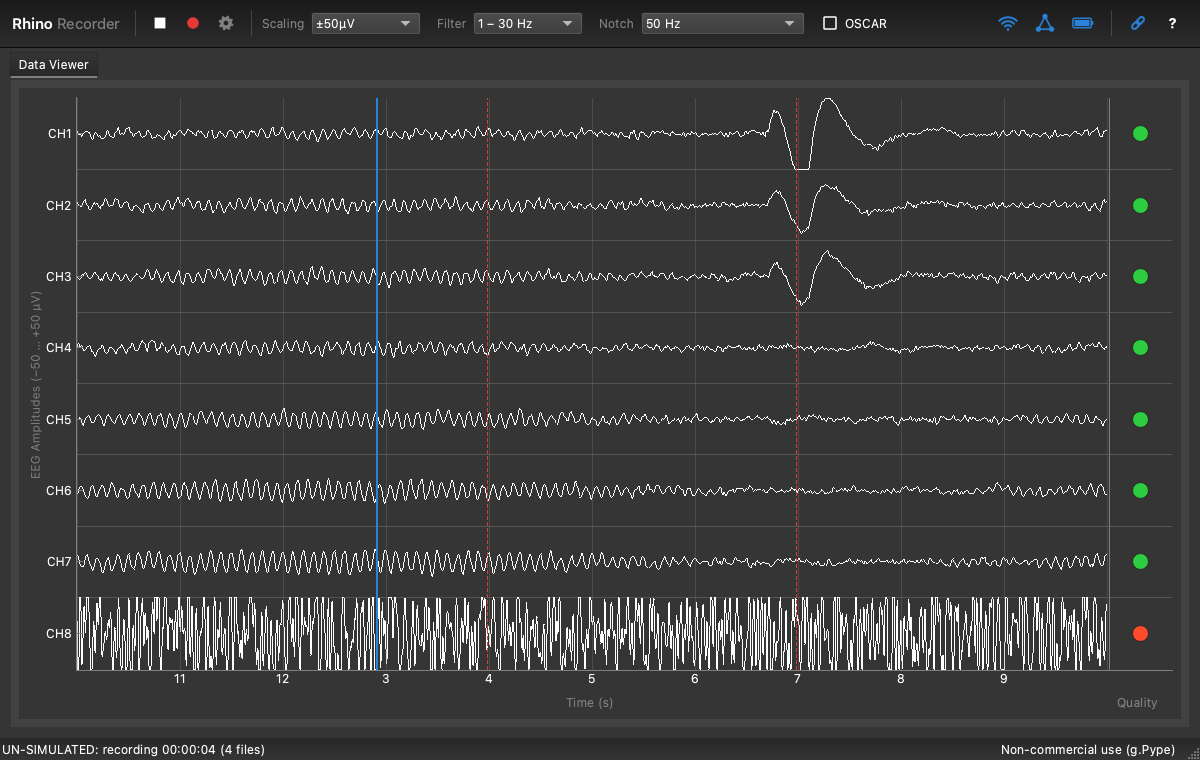
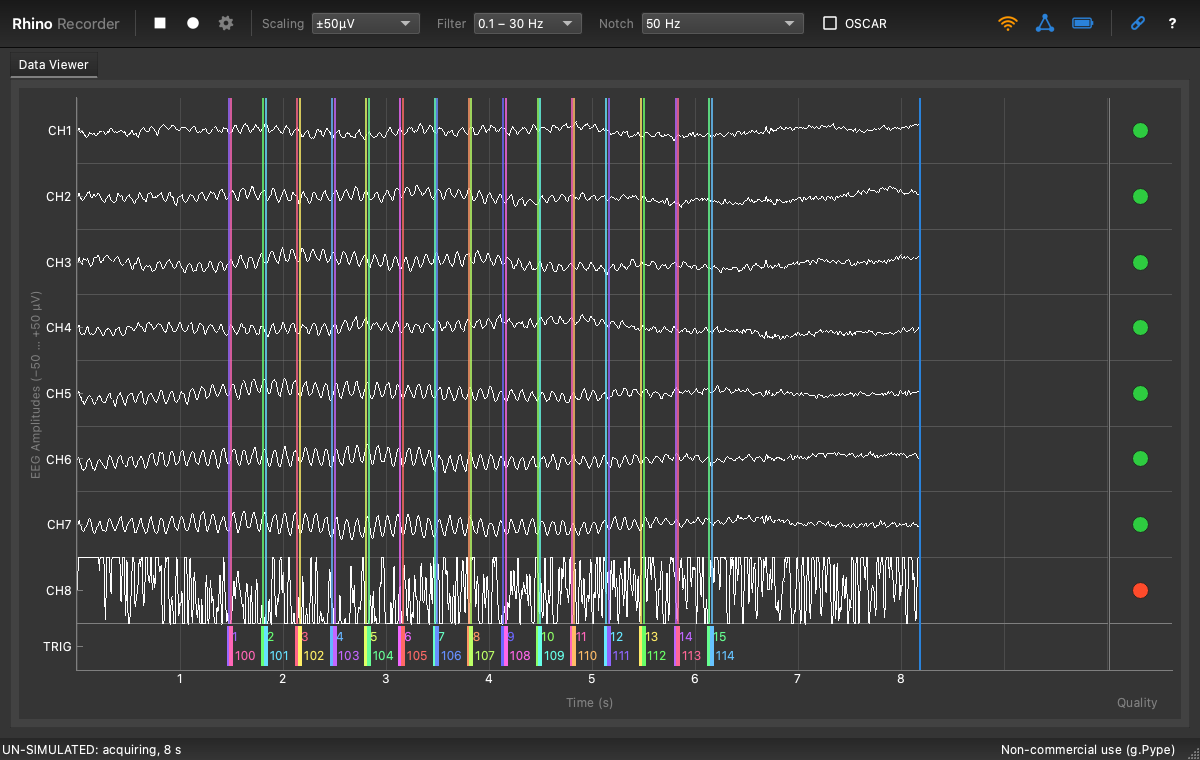
Show triggers in a TRIG row, coloured by trigger value
Below the channels, each trigger gets a marker with its value, and a
tick in the same colour crosses all channels. Each value has its own
colour (hues spaced by the golden ratio), the same in every session.
Labels of close triggers are staggered on two lines.

diff --git a/src/rhino_recorder/ui/scope.py b/src/rhino_recorder/ui/scope.py
@@ -3,13 +3,17 @@ right with a cursor at the newest sample, as in Unicorn Recorder, drawn
 the way g.Pype's TimeSeriesScope draws: light traces on the window colour,
 a faint grid, channel names on the left axis.
 
+Below the channels, a TRIG row shows each trigger as a marker with its
+value, and a tick in the same colour crosses all channels at that
+moment. Each trigger value has its own colour (:func:`trigger_colour`).
+
 To the right of the traces, a column shows each channel's signal quality
 on that channel's row."""
 from __future__ import annotations
 
 import numpy as np
 import pyqtgraph as pg
-from PySide6.QtCore import Qt
+from PySide6.QtGui import QColor
 from PySide6.QtWidgets import QVBoxLayout, QWidget
 
 from .. import layout, quality
@@ -21,6 +25,17 @@ QUALITY_TEXT = {quality.GOOD: "good", quality.BAD: "bad",
                 quality.UNKNOWN: "settling"}
 #: Height of both bottom axes, so the two plots' rows line up.
 BOTTOM_AXIS_HEIGHT = 40
+#: Height of the TRIG row, in channel rows; it spans y from -this to 0.
+TRIGGER_ROW = 0.7
+#: Golden-ratio conjugate: successive multiples spread hues evenly.
+_GOLDEN = 0.6180339887498949
+
+
+def trigger_colour(value: float) -> QColor:
+    """The colour of a trigger value: the same value always gets the same
+    colour, and neighbouring values get clearly different ones."""
+    hue = (0.11 + _GOLDEN * int(round(value))) % 1.0
+    return QColor.fromHsvF(hue, 0.6, 1.0)
 
 
 class _TimeAxis(pg.AxisItem):
@@ -66,7 +81,7 @@ class Scope(QWidget):
         item.setMouseEnabled(False, False)
         item.vb.setDefaultPadding(0)
         item.setXRange(0, seconds, padding=0)
-        item.setYRange(0, self.channels, padding=0)
+        item.setYRange(-TRIGGER_ROW, self.channels, padding=0)
         item.showGrid(x=True, y=False, alpha=0.3)
         muted = pg.mkPen(theme.MUTED)
         for name in ("left", "bottom"):
@@ -76,7 +91,7 @@ class Scope(QWidget):
         self.axis.setTickSpacing(major=1.0, minor=1.0)
         item.getAxis("left").setTicks([[
             (self.channels - i - 0.5, f"CH{i + 1}")
-            for i in range(self.channels)]])
+            for i in range(self.channels)] + [(-TRIGGER_ROW / 2, "TRIG")]])
         item.getAxis("left").setWidth(48)
         self.axis.setHeight(BOTTOM_AXIS_HEIGHT)
         item.setLabel("bottom", "Time (s)", color=theme.MUTED)
@@ -86,6 +101,7 @@ class Scope(QWidget):
         separator = pg.mkPen(255, 255, 255, 40)
         for row in range(1, self.channels):
             item.addItem(pg.InfiniteLine(row, angle=0, pen=separator))
+        item.addItem(pg.InfiniteLine(0, angle=0, pen=pg.mkPen(theme.MUTED)))
 
         self.x = np.arange(int(seconds * self.fs)) / self.fs
         trace = pg.mkPen(theme.TEXT, width=1)
@@ -95,10 +111,11 @@ class Scope(QWidget):
                                     skipFiniteCheck=False)
             item.addItem(curve)
             self.curves.append(curve)
-        self.triggers = pg.PlotDataItem(
-            pen=pg.mkPen(theme.TRIGGER, width=1, style=Qt.PenStyle.DashLine),
-            connect="finite")
-        item.addItem(self.triggers)
+        #: Per trigger value: (ticks across the channels, marker in TRIG).
+        self._trigger_items: dict[int, tuple] = {}
+        #: Value labels in the TRIG row, reused from frame to frame.
+        self._trigger_labels: list[pg.TextItem] = []
+        self._shown_triggers: tuple = ()
         self.cursor = pg.InfiniteLine(0, angle=90,
                                       pen=pg.mkPen(theme.CURSOR, width=2))
         self.cursor.hide()
@@ -129,6 +146,7 @@ class Scope(QWidget):
         separator = pg.mkPen(255, 255, 255, 40)
         for row in range(1, self.channels):
             item.addItem(pg.InfiniteLine(row, angle=0, pen=separator))
+        item.addItem(pg.InfiniteLine(0, angle=0, pen=pg.mkPen(theme.MUTED)))
         item.addItem(pg.InfiniteLine(0, angle=90, pen=pg.mkPen(theme.MUTED)))
         self.quality_dots = pg.ScatterPlotItem(
             x=[0.5] * self.channels,
@@ -173,8 +191,72 @@ class Scope(QWidget):
     def clear(self) -> None:
         for curve in self.curves:
             curve.setData([], [])
-        self.triggers.setData([], [])
+        self.show_triggers([], [])
         self.cursor.hide()
+
+    def _items_for(self, value: int) -> tuple:
+        """The tick and marker items of one trigger value, made once."""
+        if value not in self._trigger_items:
+            colour = trigger_colour(value)
+            tick_colour = QColor(colour)
+            tick_colour.setAlpha(200)
+            # A whole pixel width: at 1.5 px, ticks at some positions were
+            # drawn thin and washed out.
+            ticks = pg.PlotDataItem(pen=pg.mkPen(tick_colour, width=2),
+                                    connect="finite")
+            marker = pg.PlotDataItem(pen=pg.mkPen(colour, width=4),
+                                     connect="finite")
+            self.plot_item.addItem(ticks)
+            self.plot_item.addItem(marker)
+            self._trigger_items[value] = (ticks, marker)
+        return self._trigger_items[value]
+
+    def show_triggers(self, times, values) -> None:
+        """Mark triggers at ``times`` (s, in sweep position) with their
+        ``values``: a tick across the channels, a marker and the value in
+        the TRIG row, all in the value's colour."""
+        shown = tuple(zip(np.round(times, 4).tolist(),
+                          np.asarray(values).astype(int).tolist()))
+        if shown == self._shown_triggers:
+            return
+        self._shown_triggers = shown
+        by_value: dict[int, list[float]] = {}
+        for t, value in shown:
+            by_value.setdefault(value, []).append(t)
+        for value in by_value:
+            self._items_for(value)
+        for value, (ticks, marker) in self._trigger_items.items():
+            ts = np.array(by_value.get(value, []))
+            xs = np.repeat(ts, 3)
+            xs[2::3] = np.nan
+            ticks.setData(xs, np.tile([0.0, float(self.channels), np.nan],
+                                      len(ts)))
+            marker.setData(xs, np.tile([-TRIGGER_ROW * 0.9,
+                                        -TRIGGER_ROW * 0.1, np.nan], len(ts)))
+        while len(self._trigger_labels) < len(shown):
+            label = pg.TextItem(anchor=(0, 0.5))
+            self.plot_item.addItem(label)
+            self._trigger_labels.append(label)
+        # Labels of triggers close together would overprint: such a label
+        # takes the TRIG row's second line.
+        seconds_per_px = self.seconds / max(self.plot_item.vb.width(), 1.0)
+        lane_of, lane_end = [], [-np.inf, -np.inf]
+        for t, value in shown:
+            lane = 0 if t >= lane_end[0] else 1
+            lane_of.append(lane)
+            lane_end[lane] = t + (8 + 7 * len(str(value))) * seconds_per_px
+        if 1 in lane_of:
+            heights = (-TRIGGER_ROW * 0.3, -TRIGGER_ROW * 0.72)
+        else:
+            heights = (-TRIGGER_ROW / 2, -TRIGGER_ROW / 2)
+        for i, label in enumerate(self._trigger_labels):
+            if i < len(shown):
+                t, value = shown[i]
+                label.setText(f"{value}", color=trigger_colour(value))
+                label.setPos(t, heights[lane_of[i]])
+                label.show()
+            else:
+                label.hide()
 
     def show_sweep(self, buffer: np.ndarray, total: int,
                    eeg: list[int], status: int | None) -> None:
@@ -196,10 +278,7 @@ class Scope(QWidget):
             self.curves[row].setData(self.x, y)
         if status is not None:
             slots = np.flatnonzero(buffer[:filled, status])
-            xs = np.repeat(self.x[slots], 3)
-            ys = np.tile([0.0, float(self.channels), np.nan], len(slots))
-            xs[2::3] = np.nan
-            self.triggers.setData(xs, ys)
+            self.show_triggers(self.x[slots], buffer[slots, status])
         self.cursor.setValue(cursor / self.fs)
         self.cursor.show()
         self.axis.cursor = cursor / self.fs

diff --git a/tests/test_gui.py b/tests/test_gui.py
@@ -89,3 +89,40 @@ def test_play_record_stop(app, settings, monkeypatch):
         assert window.stack.currentIndex() == 0
     finally:
         window.close()
+
+
+def test_trigger_colours_are_stable_and_distinct():
+    from rhino_recorder.ui.scope import trigger_colour
+
+    colours = [trigger_colour(v).name() for v in range(1, 11)]
+    assert len(set(colours)) == 10
+    assert trigger_colour(3).name() == trigger_colour(3.0).name()
+
+
+def test_trigger_row(app):
+    import numpy as np
+
+    from rhino_recorder.ui.scope import TRIGGER_ROW, Scope, trigger_colour
+
+    scope = Scope()
+    scope.resize(1000, 600)
+    scope.show_triggers(np.array([1.0, 2.0, 2.01, 5.0]),
+                        np.array([3, 7, 99, 3]))
+    # One tick and marker item per value, in that value's colour.
+    assert set(scope._trigger_items) == {3, 7, 99}
+    ticks, _ = scope._trigger_items[3]
+    assert ticks.opts["pen"].color().rgb() == trigger_colour(3).rgb()
+    xs, ys = ticks.getData()
+    assert list(xs[::3]) == [1.0, 5.0]
+    assert list(ys[:2]) == [0.0, float(scope.channels)]
+    # A label per trigger; the two close ones on different lines.
+    labels = [label for label in scope._trigger_labels if label.isVisible()]
+    assert [label.toPlainText() for label in labels] == ["3", "7", "99", "3"]
+    heights = [label.pos().y() for label in labels]
+    assert heights[1] != heights[2]
+    assert all(-TRIGGER_ROW < h < 0 for h in heights)
+    # Clearing hides them all.
+    scope.show_triggers([], [])
+    assert not any(label.isVisible() for label in scope._trigger_labels)
+    cleared = scope._trigger_items[3][0].getData()[0]
+    assert cleared is None or len(cleared) == 0

diff --git a/src/rhino_recorder/ui/theme.py b/src/rhino_recorder/ui/theme.py
@@ -29,7 +29,6 @@ ICON_DISABLED = MUTED
 RECORDING = "#e53935"
 WARNING = "#ff9800"
 CURSOR = HIGHLIGHT
-TRIGGER = "#e53935"
 GOOD = "#2ecc40"
 BAD = "#ff4b2b"
 UNKNOWN = MUTED

diff --git a/src/rhino_recorder/MANUAL.md b/src/rhino_recorder/MANUAL.md
@@ -73,7 +73,14 @@ processed outputs, and can be changed while recording.
 ## Data viewer
 
 Shows the eight EEG channels over 10 seconds, sweeping from left to right.
-The blue line is the newest sample; red dashed lines mark triggers.
+The blue line is the newest sample.
+
+Below the channels, the **TRIG** row shows every trigger as a marker with
+its value, and a tick in the same colour crosses all channels at that
+moment. Each trigger value has its own colour, the same every time, so
+recurring events are easy to spot. Labels of triggers close together are
+staggered on two lines. Two triggers within one sample (4 ms) cannot be
+told apart: only the first is kept.
 
 ## Signal quality
 

diff --git a/README.md b/README.md
@@ -24,6 +24,8 @@ As in Unicorn Recorder:
   amplitude **Scaling**, the same predefined **Filter** (bandpass,
   highpass, lowpass) and **Notch** (50/60 Hz, cascading) choices, and
   **OSCAR** artifact removal.
+- A trigger row with each trigger's value, and a tick across all channels,
+  coloured by trigger value.
 - Signal quality for each electrode, shown beside its channel's trace.
 - The same 19 channels in the same order (EEG 1–8, ACC, GYR, CNT, BAT,
   VALID, DT, TRIGGER), each optional block switchable in the acquisition
